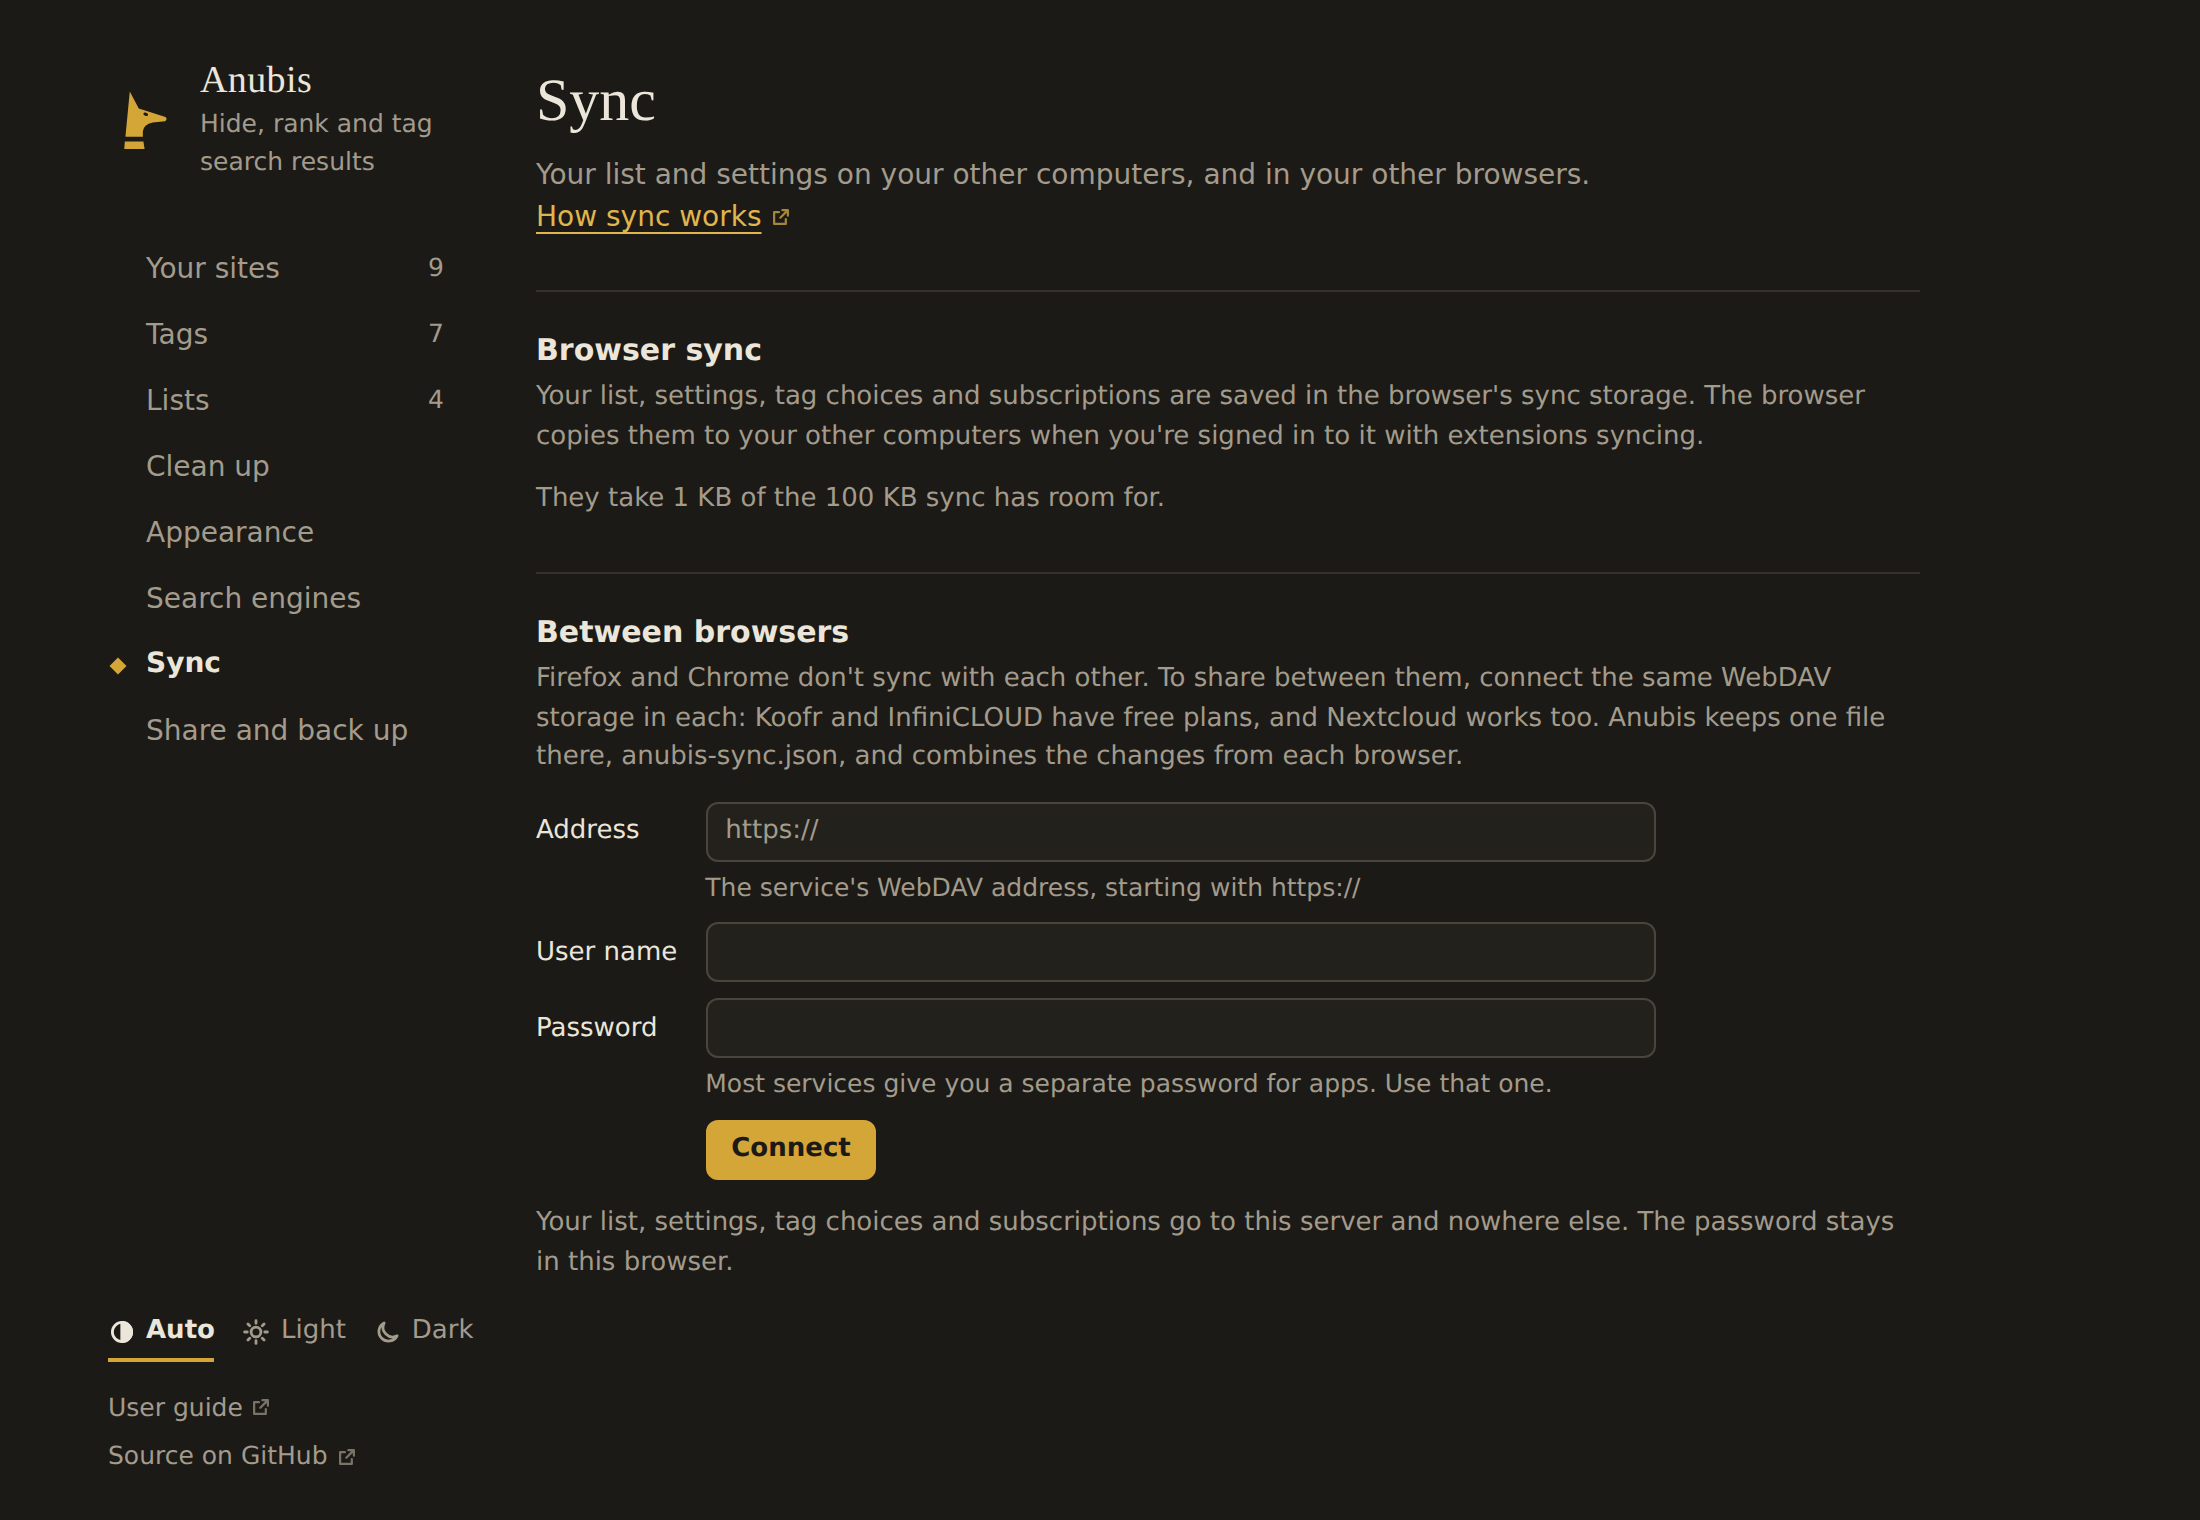
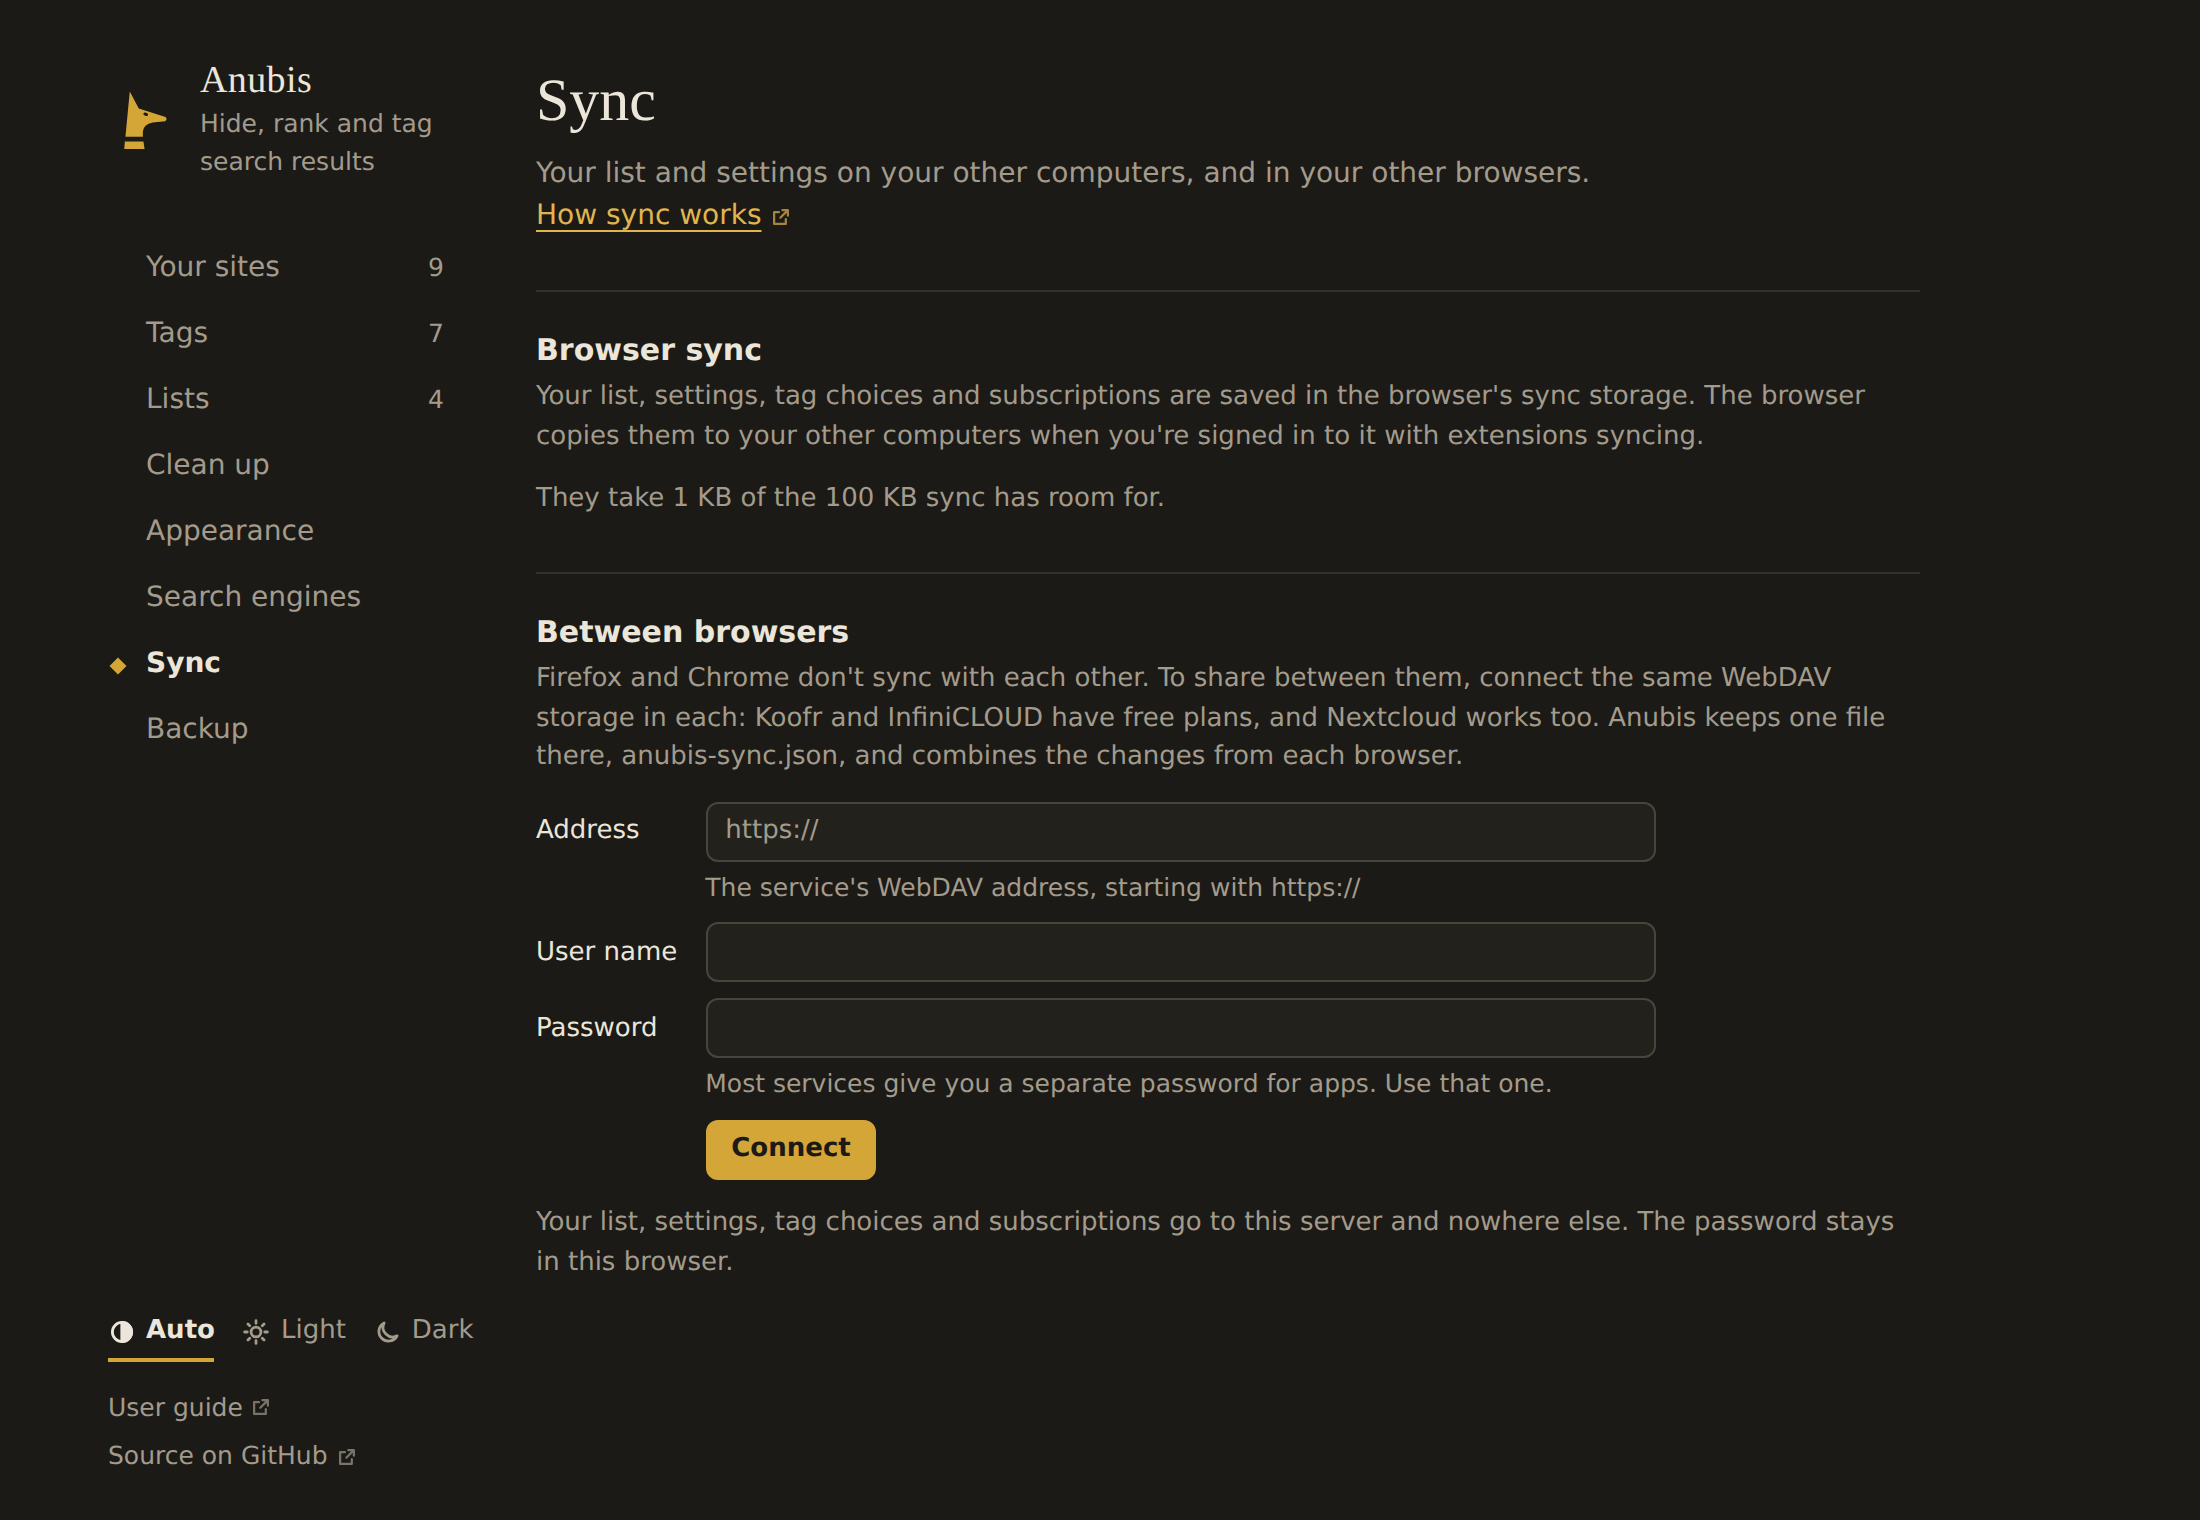
Shorten the backup section's name in the settings sidebar

diff --git a/entrypoints/options/main.ts b/entrypoints/options/main.ts
@@ -34,7 +34,7 @@ const SECTIONS: Section[] = [
   { id: 'appearance', label: 'Appearance', render: renderAppearance, help: ['guide/ranking#hidden-results', 'About hidden results'] },
   { id: 'engines', label: 'Search engines', render: renderEngines, help: ['guide/search-engines', 'Which engines work'] },
   { id: 'sync', label: t('syncHeading'), render: renderSync, help: ['guide/sync', 'How sync works'] },
-  { id: 'share', label: 'Share and back up', render: renderShare, help: ['guide/import-and-backup', 'Moving from other tools'] },
+  { id: 'share', label: 'Backup', render: renderShare, help: ['guide/import-and-backup', 'Moving from other tools'] },
 ];
 
 function external(href: string, text: string, className?: string): HTMLElement {

diff --git a/entrypoints/options/general.ts b/entrypoints/options/general.ts
@@ -203,7 +203,7 @@ export async function renderShare(): Promise<HTMLElement> {
   return h(
     'div',
     null,
-    pageTitle('Share and back up', 'Your list is a plain text file. Publish it and anyone can subscribe; keep a backup of everything else.'),
+    pageTitle('Back up, import and share', 'Keep a copy of everything, bring your sites over from another tool, or publish your list for others to subscribe to.'),
     h(
       'div',
       { class: 'panel' },

diff --git a/docs/experiments.md b/docs/experiments.md
@@ -283,6 +283,7 @@ Subscribe on the lists directory, and links list authors share, lead to the guid
 - **The cartouche's name was off centre (2026-09-29):** a select is as wide as its longest option, so `wikipedia.org` sat left in a box sized for `en.wikipedia.org`, with a gap before the caret. The name is now text with the caret after it, and the native select lies unseen over the whole oval (it still opens the browser's own list and works from the keyboard; the oval shows its focus ring through `:has(select:focus-visible)`). With one choice there's no select at all, where before a disabled one greyed the name. Choosing another part of the site keeps focus on the picker; before, it jumped to Hide. The `popover` e2e part switches `developer.mozilla.org` to `mozilla.org` from the keyboard.
 - **The popup changes with the tab (2026-09-29):** the popup showed the same four sections everywhere, and gave the most room (and the only gold button) to typing a domain by hand, the rarest thing people open it for. It had a dropdown for the ranking where the result menu has a choice row, three unlabelled theme icons next to the on/off switch, and × to forget a site with no undo. Three layouts were drawn: a list of every site Anubis acted on in the page's results, with the reason (needs the content script to report per-site verdicts); one "Find or add a site" field at the top; and a popup that changes with the tab. The project owner picked the last. On a search page it shows the summary, its buttons and the tags to show only (the `set-filter` message the summary already used); on another site, the result menu's cartouche, balance, rankings, hint and tags, worked out in the popup with `evaluate()` on the tab's address; elsewhere, Add a site opens by itself, with Hide, Lower, Raise and Pin as buttons instead of a dropdown and an Add button. The theme moved to Settings only; forgetting a site moved there too, and the footer's list count opens Settings → Lists. The balance moved to `utils/balance.ts` so both draw the same one. Mockups of the three are not in the repository.
 - **Clean up settings read the wrong way round (2026-09-29):** the page listed nouns ("AI answers", "Videos") each with a switch, all off, so "AI answers: off" could read as AI answers already turned off. The project owner found it unclear. The list now sits under "Remove from every search" with one line saying on removes and off leaves it, the intro says to turn on what you'd rather not see, and labels that only named a topic say which part of the page goes ("Video panels", "Discussion panels", "Image rows"); "Discussions" also clashed with the Discussions tag. The Google switch's heading is "On Google" and its hint starts with what it does. Not tried: "Remove …" on every label, which repeated the verb seven times.
+- **"Share and back up" was too long for the settings sidebar (2026-09-29):** it wrapped onto two lines. The sidebar now says **Backup**, the most common reason to open it, and the page's title names all three things it does: "Back up, import and share". The address stays `#share`, since the guide and earlier builds link to it.
 
 ## Undo (2026-09-29)
 

diff --git a/README.md b/README.md
@@ -13,7 +13,7 @@ In Egyptian myth, Anubis weighed each heart against a feather. This extension we
 - **Lists anyone can publish.** A list is a text file on GitHub, GitLab, Codeberg or a gist; there is no server. Anubis reads its own list format, Brave Goggles, uBlacklist rulesets and plain domain lists, so existing community lists work unchanged. Subscribe links (on the [lists directory](https://bishop-v.github.io/anubis/lists), or any list's own page) open Anubis with the list filled in. The menu on each result can open a pre-filled issue on a list's tracker, to report a site the list got wrong or suggest one it's missing.
 - **Your list is a list too.** Every site you rank is stored in the same format, so you can download it and publish it for others.
 - **Sync.** Your list and settings follow you to your other computers through the browser's own sync. To share between Firefox and Chrome too, connect a WebDAV storage service (Koofr, InfiniCLOUD, Nextcloud…) in Settings → Sync; changes from each browser are combined.
-- **Bring your old lists.** Paste uBlacklist rules, a HOHSER export or a Goggle into Settings → Share and back up to move your sites over.
+- **Bring your old lists.** Paste uBlacklist rules, a HOHSER export or a Goggle into Settings → Backup to move your sites over.
 - **Filter by tag.** The summary above the results lists the tags on the page; click one to see only those results.
 - **Clean up pages.** Remove AI answers (Google's AI Overview and AI Mode tab, DuckDuckGo's AI-assisted answers and Duck.ai buttons, and Brave's AI answers), video panels, "People also ask", top stories, image rows and related searches, on every search (Bing's AI answer and video panel aren't recognised yet). Google can also always open its plain Web tab. "Show hidden" brings removed parts back on that page.
 - **Quiet on the page.** Hidden results leave the page (or collapse to one line, if you prefer); the summary above the results is one sentence. Light and dark themes follow your browser and the search engine, or your choice.

diff --git a/CLAUDE.md b/CLAUDE.md
@@ -60,7 +60,7 @@ Everything on search pages was built against the mocks in `e2e/fixtures.mjs`: th
 - `entrypoints/background.ts`: list updates (on startup and when a search page asks, at most every 30 minutes), syncing with a WebDAV server when one is connected (a few seconds after a change, on startup, and when a search page asks, at most every 5 minutes), the toolbar badge, the grey icon while Anubis is off (`public/icon-off/`), and opening the welcome page on first install
 - `entrypoints/popup/`: changes with the tab: what Anubis did on a search page (and its tags to show only), the site you're on in the cartouche and balance (`utils/balance.ts`, shared with the result menu), or adding a site by hand; then the last few of your sites
 - `entrypoints/welcome/`: the page that opens on first install: how to pin the toolbar button in this browser, searches to try, and the lists you start with
-- `entrypoints/options/`: settings sections (your sites, tags, lists, clean up, appearance, engines, sync, share and back up)
+- `entrypoints/options/`: settings sections (your sites, tags, lists, clean up, appearance, engines, sync, backup)
 - `utils/engines.ts`: engine definitions. Also imported at build time for the manifest's matches, so keep it free of browser APIs. When an engine breaks, diff against uBlacklist's ruleset at <https://github.com/ublacklist/builtin> (`serpinfo/*.yml`), which tracks these layouts continuously. An engine's `mobile` holds its phone layout's differences, chosen by user agent when the content script starts.
 - `utils/listformat.ts`: the list parser; `utils/matcher.ts`: compiling lists and weighing a result; `utils/personal.ts`: line-level edits to the personal list
 - `utils/storage.ts`, `utils/ruleset.ts`, `utils/subscriptions.ts`: storage items, loading everything into one rule set, downloading lists

diff --git a/docs/list-format.md b/docs/list-format.md
@@ -121,7 +121,7 @@ Anubis detects the format of each file, so existing lists work without changes.
 
 ## Publishing a list
 
-1. Write the file, or download your own from **Settings → Share and back up**.
+1. Write the file, or download your own from **Settings → Backup**.
 2. Put it in a public repository or gist. Any file extension works; `.anubis` helps people recognise it.
 3. Share the link. GitHub page links, gist links and `search.brave.com/goggles?goggles_id=…` links are all converted to the raw file automatically.
 4. Set `! issues:` so people can suggest additions from the menu on each result.

diff --git a/docs/guide/import-and-backup.md b/docs/guide/import-and-backup.md
@@ -2,7 +2,7 @@
 
 ## Import sites
 
-Coming from uBlacklist, HOHSER or a Brave Goggle? Open **Settings → Share and back up → Import sites**, paste your rules (or press **Choose a file**) and press **Import**. The sites join your own list.
+Coming from uBlacklist, HOHSER or a Brave Goggle? Open **Settings → Backup → Import sites**, paste your rules (or press **Choose a file**) and press **Import**. The sites join your own list.
 
 | From | What you get |
 | --- | --- |

diff --git a/docs/guide/publish-a-list.md b/docs/guide/publish-a-list.md
@@ -4,7 +4,7 @@ A list is a text file anyone can subscribe to. You don't need a server or an acc
 
 ## 1. Write it
 
-The quickest start is your own list. **Settings → Share and back up → Download my list** saves every site you've ranked and tagged. Or write one from scratch:
+The quickest start is your own list. **Settings → Backup → Download my list** saves every site you've ranked and tagged. Or write one from scratch:
 
 ```
 ! name: Official docs
